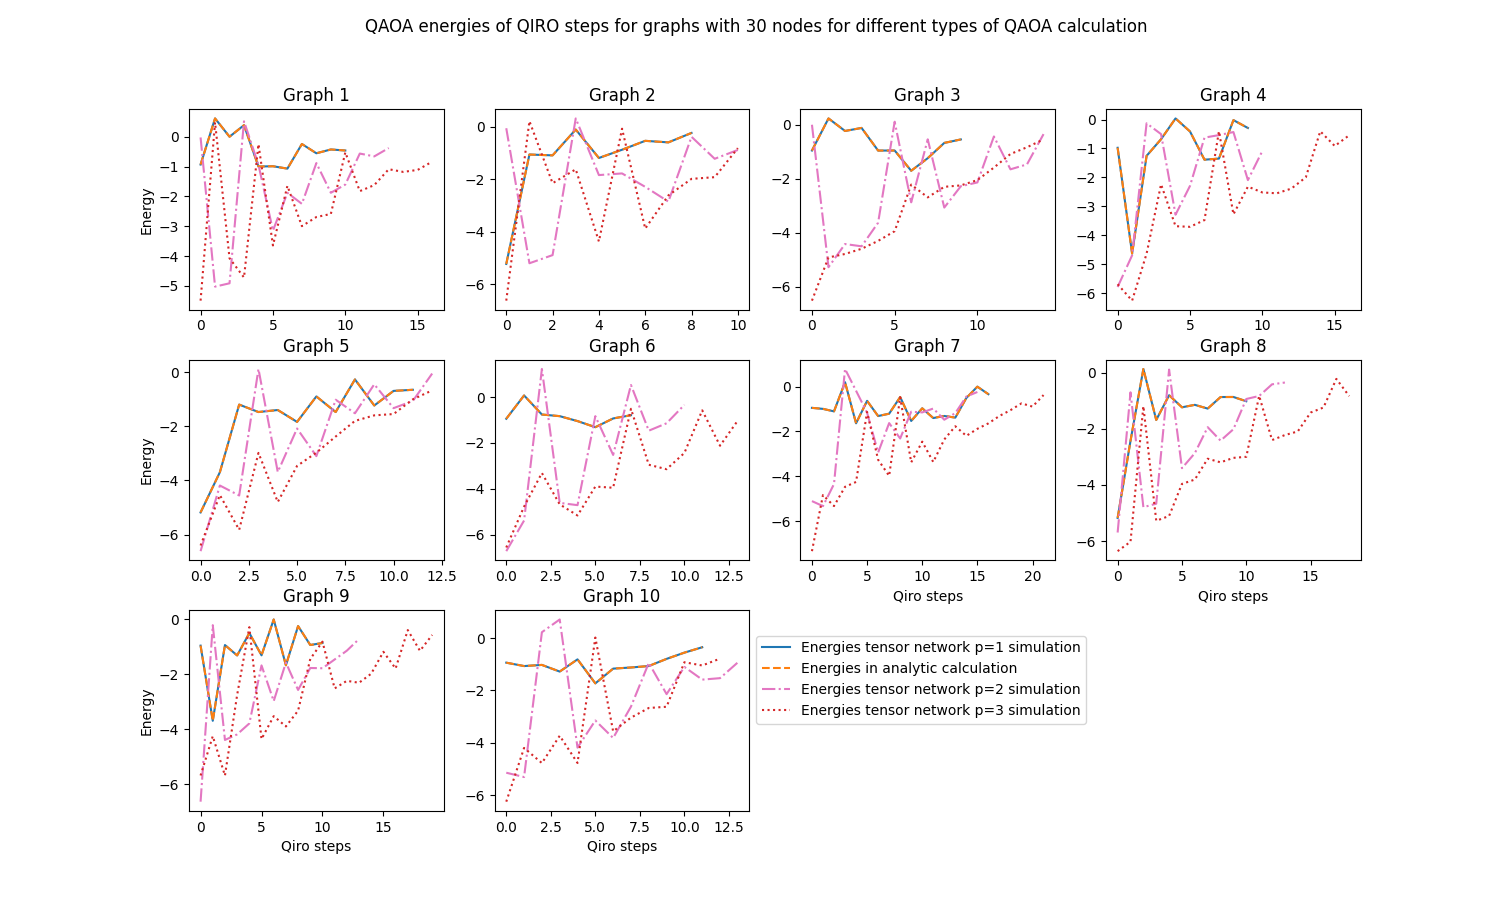
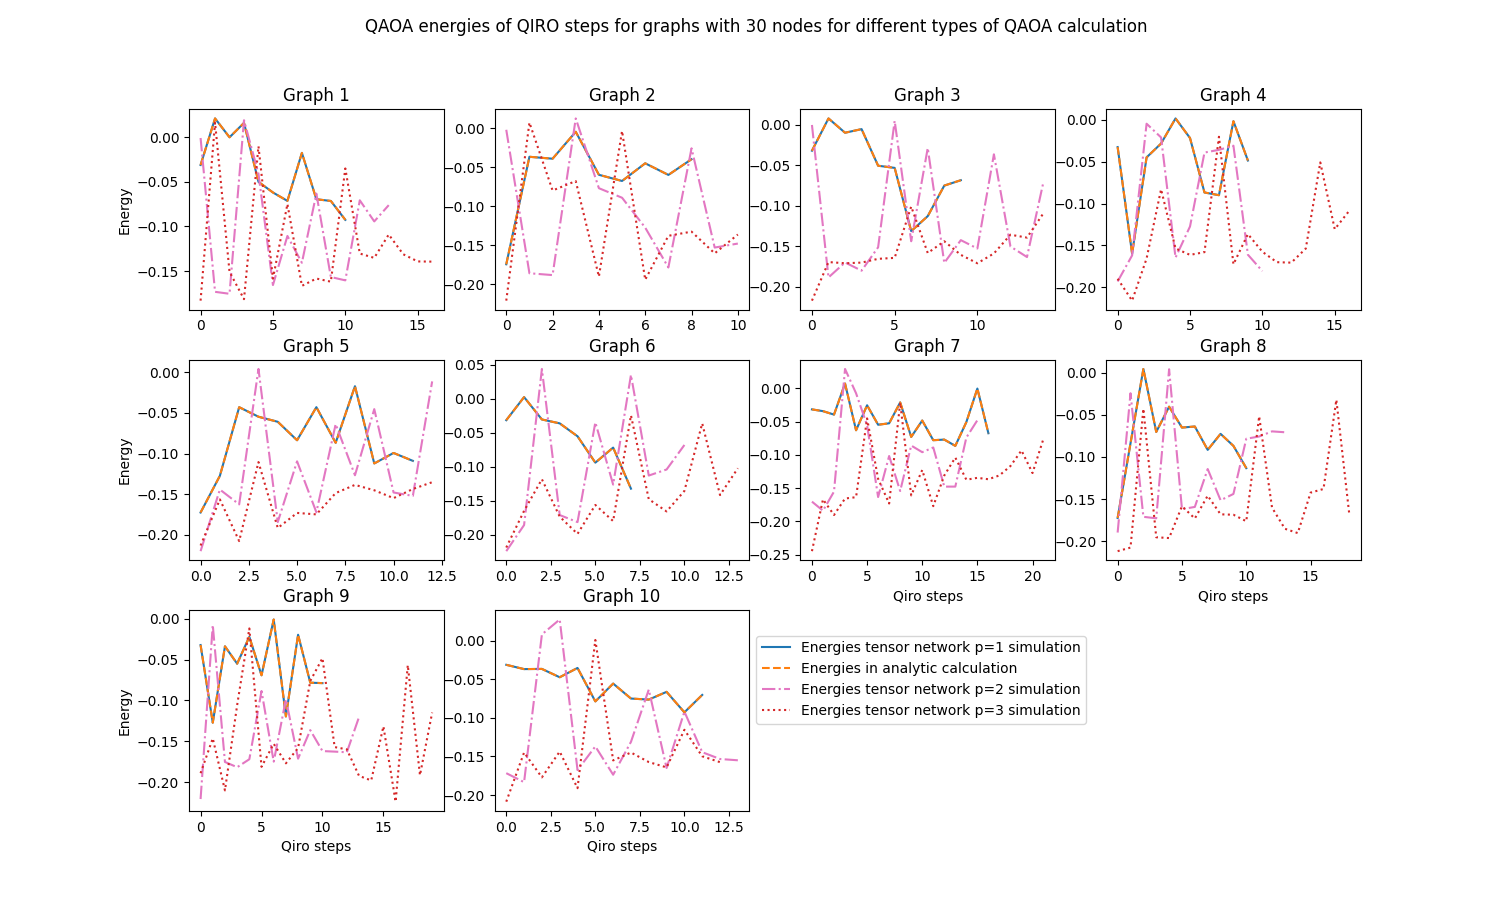
update

diff --git a/Experiments/MIS_QIRO/scripts/Read_results_file.py b/Experiments/MIS_QIRO/scripts/Read_results_file.py
@@ -49,16 +49,6 @@ def plot_MIS_size_per_graph(ns, ps, runs, version, regularity):
                     print(f'file results_run_{run}_n_{n}_p_{p}_version_{version}.pkl not available')
             
             if p==1:
-                counter_size = 0
-                average_list = []
-                for size in MIS_size_single_list:
-                    counter_size += size
-                average = counter_size/len(list_graphs_single)
-                for i in list_graphs_single:
-                    average_list.append(average)
-                plt.scatter(list(range(len(MIS_size_single_list))), MIS_size_single_list, c=colors[counter], s = 100, marker = markers[counter], label = f'analytic simulation with p=1')
-                plt.plot(list_graphs_single, average_list, color=colors[counter], linestyle=linestyles[counter], label = 'average MIS size with analytic p=1')
-                counter +=1
 
                 counter_size = 0
                 average_list = []
@@ -67,22 +57,34 @@ def plot_MIS_size_per_graph(ns, ps, runs, version, regularity):
                 average = counter_size/len(list_graphs_single)
                 for i in list_graphs_single:
                     average_list.append(average)
-                plt.scatter(list(range(len(MIS_size_greedy_list))), MIS_size_greedy_list, c=colors[counter], marker = markers[counter], label = f'greedy algorithm')
+                plt.scatter(list_graphs_single, MIS_size_greedy_list, c=colors[counter], s=100, marker = markers[counter], label = f'greedy algorithm')
                 plt.plot(list_graphs_single, average_list, color=colors[counter], linestyle=linestyles[counter], label = 'average MIS size with greedy algorithm')
                 counter +=1
+
+                counter_size = 0
+                average_list = []
+                for size in MIS_size_single_list:
+                    counter_size += size
+                average = counter_size/len(list_graphs_single)
+                for i in list_graphs_single:
+                    average_list.append(average)
+                plt.scatter(list_graphs_single, MIS_size_single_list, c=colors[counter], marker = markers[counter], label = f'analytic simulation with p=1')
+                plt.plot(list_graphs_single, average_list, color=colors[counter], linestyle=linestyles[counter], label = 'average MIS size with analytic p=1')
+                counter +=1
+
 
             counter_size = 0
             average_list = []
             for size in MIS_size_qtensor_list:
                 counter_size += size
             average = counter_size/len(list_graphs_qtensor)
-            for i in list_graphs_qtensor:
+            for i in runs:
                 average_list.append(average)
-            plt.scatter(list(range(len(MIS_size_qtensor_list))), MIS_size_qtensor_list, c=colors[counter], marker = markers[counter], label = f'tensor network simulation for p={p}')
-            plt.plot(list_graphs_qtensor, average_list, color=colors[counter], linestyle=linestyles[counter], label = f'average MIS size with tensor network p={p}')
+            plt.scatter(list_graphs_qtensor, MIS_size_qtensor_list, c=colors[counter], marker = markers[counter], label = f'tensor network simulation for p={p}')
+            plt.plot(runs, average_list, color=colors[counter], linestyle=linestyles[counter], label = f'average MIS size with tensor network p={p}')
             counter += 1
             
-        plt.xticks(runs, list(range(len(MIS_size_qtensor_list))))
+        plt.xticks(runs, list(range(len(MIS_size_single_list))))
         plt.xlabel('Graphs')
         plt.ylabel('MIS size')
         plt.legend()    
@@ -103,26 +105,26 @@ def plot_energies(ns, ps, runs, version, regularity, per_node=False):
             counter = 0
             plt.subplot(3, 4, i+1)
             for p in ps:
-                #try:
-                with open(my_path + f"/data/results_run_{run}_n_{n}_p_{p}_version_{version}.pkl", 'rb') as file:
-                    data = pickle.load(file)
-                num_nodes_qtensor = data['num_nodes_qtensor']
-                energies_qtensor = [float(j) for j in data['energies_qtensor']]
-                if per_node==True:
-                    energies_qtensor = [energies_qtensor[j]/num_nodes_qtensor[j] for j in range(len(num_nodes_qtensor))]
-                
-                plt.plot(list(range(len(energies_qtensor))), energies_qtensor, color=colors[counter], linestyle=linestyles[counter], label = f'Energies tensor network p={p} simulation')
-                counter += 1
-
-                if p==1:
-                    num_nodes_single = data['num_nodes_qtensor']
-                    energies_single = [float(j) for j in data['energies_single']]
+                try:
+                    with open(my_path + f"/data/results_run_{run}_n_{n}_p_{p}_version_{version}.pkl", 'rb') as file:
+                        data = pickle.load(file)
+                    num_nodes_qtensor = data['num_nodes_qtensor']
+                    energies_qtensor = [float(j) for j in data['energies_qtensor']]
                     if per_node==True:
-                        energies_single = [energies_single[j]/num_nodes_single[j] for j in range(len(num_nodes_single))]
-                    plt.plot(list(range(len(energies_single))), energies_single, color=colors[counter], linestyle=linestyles[counter], label = f'Energies in analytic calculation')
+                        energies_qtensor = [energies_qtensor[j]/num_nodes_qtensor[j] for j in range(len(num_nodes_qtensor))]
+                    
+                    plt.plot(list(range(len(energies_qtensor))), energies_qtensor, color=colors[counter], linestyle=linestyles[counter], label = f'Energies tensor network p={p} simulation')
                     counter += 1
-                #except:
-                #    print(f'file results_run_{run}_n_{n}_p_{p}_version_{version}.pkl not available')
+
+                    if p==1:
+                        num_nodes_single = data['num_nodes_qtensor']
+                        energies_single = [float(j) for j in data['energies_single']]
+                        if per_node==True:
+                            energies_single = [energies_single[j]/num_nodes_single[j] for j in range(len(num_nodes_single))]
+                        plt.plot(list(range(len(energies_single))), energies_single, color=colors[counter], linestyle=linestyles[counter], label = f'Energies in analytic calculation')
+                        counter += 1
+                except:
+                    print(f'file results_run_{run}_n_{n}_p_{p}_version_{version}.pkl not available')
 
             if i==0 or i==4 or i==8:
                 plt.ylabel('Energy')
@@ -133,6 +135,109 @@ def plot_energies(ns, ps, runs, version, regularity, per_node=False):
         plt.legend(loc='lower left', bbox_to_anchor=(1,0.4))
         plt.show()
         fig.savefig(my_path + f'/results/Energies_reg_{regularity}_n_{n}_runs_{runs[0]}_{runs[9]}_version_{version}.png')
+
+
+def plot_losses(ns, ps, runs, version, regularity, per_node=False):
+    colors=['tab:blue', 'tab:orange', 'tab:pink', 'tab:red', 'tab:cyan', 'tab:green', 'tab:brown', 'tab:grey', 'tab:olive', 'tab:purple']
+    markers = ['s', 'D', 'v', '*', '.']
+    linestyles = ['solid', 'dashed', 'dashdot', 'dotted', (0, (3, 5, 1, 5, 1, 5)), (0, (3, 1, 1, 1, 1, 1))]
+    my_path = os.path.dirname(__file__)
+    my_path = os.path.dirname(my_path)
+    for n in ns:
+        for run, i in zip(runs, range(len(runs))):
+            fig = plt.figure()
+            fig.suptitle(f"QAOA optimization losses of QIRO steps for graph number {run} with {n} nodes for different types of QAOA calculation")
+            counter = 0
+            for p in ps:
+                try:
+                    with open(my_path + f"/data/results_run_{run}_n_{n}_p_{p}_version_{version}.pkl", 'rb') as file:
+                        data = pickle.load(file)
+                    num_nodes_qtensor = data['num_nodes_qtensor']
+                    losses = data['losses_qtensor']
+                    if p ==1:
+                        energies_single = data['energies_single']
+
+                    for j in range(14):
+                        plt.subplot(3, 5, j+1)
+                        try:
+                            losses_per_step = losses[j]
+                            if per_node==True:
+                                losses_per_step = [losses_per_step[k]/num_nodes_qtensor[j] for k in range(len(losses_per_step))]
+                        
+                            plt.plot(list(range(len(losses_per_step))), losses_per_step, color=colors[counter], linestyle=linestyles[counter], label = f'Losses tensor network p={p} simulation')
+                            plt.title(f'QIRO step {j}')
+                            if j==0 or j==5 or j==10:
+                                plt.ylabel('Loss')
+                            if j==9 or j==10 or j==11 or j==12 or j==13:
+                                plt.xlabel('Optimization steps')
+                        except:
+                            pass
+                        
+                         
+                        if p==1:
+                            plt.scatter([0], [energies_single[j]])
+                except:
+                    print(f'file results_run_{run}_n_{n}_p_{p}_version_{version}.pkl not available')
+                counter += 1
+
+            lines = []
+            labels = []
+            
+            line, label = fig.axes[0].get_legend_handles_labels()
+            lines.extend(line)
+            labels.extend(label)
+            plt.subplots_adjust(left=0.1, bottom=None, right=None, top=None, wspace=0.4, hspace=0.35)
+            plt.legend(lines, labels, loc='lower left', bbox_to_anchor=(1,0.2))
+            plt.show()
+            fig.savefig(my_path + f'/results/Losses_reg_{regularity}_n_{n}_run_{run}_version_{version}.png')
+
+def plot_losses_multiple_versions(ns, ps, runs, versions, regularity, per_node=False):
+    colors=['tab:blue', 'tab:orange', 'tab:pink', 'tab:red', 'tab:cyan', 'tab:green', 'tab:brown', 'tab:grey', 'tab:olive', 'tab:purple']
+    markers = ['s', 'D', 'v', '*', '.']
+    linestyles = ['solid', 'dashed', 'dashdot', 'dotted', (0, (3, 5, 1, 5, 1, 5)), (0, (3, 1, 1, 1, 1, 1))]
+    my_path = os.path.dirname(__file__)
+    my_path = os.path.dirname(my_path)
+    for n in ns:
+        for run, i in zip(runs, range(len(runs))):
+            fig = plt.figure()
+            fig.suptitle(f"QAOA optimization losses of QIRO steps for graph number {run} with {n} nodes for different types of QAOA calculation")
+            counter = 0
+            for p in ps:
+
+                for version in versions:
+                    try:
+                        with open(my_path + f"/data/results_run_{run}_n_{n}_p_{p}_version_{version}.pkl", 'rb') as file:
+                            data = pickle.load(file)
+                        num_nodes_qtensor = data['num_nodes_qtensor']
+                        losses = data['losses_qtensor']
+
+                        for j in range(14):
+                            plt.subplot(3, 5, j+1)
+                            losses_per_step = losses[j]
+                            if per_node==True:
+                                losses_per_step = [losses_per_step[k]/num_nodes_qtensor[j] for k in range(len(losses_per_step))]
+                        
+                            plt.plot(list(range(len(losses_per_step))), losses_per_step, color=colors[counter], linestyle=linestyles[counter], label = f'Losses tensor network p={p} simulation')
+                            plt.title(f'QIRO step {j}')
+                            if j==0 or j==5 or j==10:
+                                plt.ylabel('Loss')
+                            if j==9 or j==10 or j==11 or j==12 or j==13:
+                                plt.xlabel('Optimization steps')
+
+                    except:
+                        print(f'file results_run_{run}_n_{n}_p_{p}_version_{version}.pkl not available')
+                    counter += 1
+
+            lines = []
+            labels = []
+            
+            line, label = fig.axes[0].get_legend_handles_labels()
+            lines.extend(line)
+            labels.extend(label)
+            plt.subplots_adjust(left=0.1, bottom=None, right=None, top=None, wspace=0.4, hspace=0.35)
+            plt.legend(lines, labels, loc='lower left', bbox_to_anchor=(1,0.2))
+            plt.show()
+            fig.savefig(my_path + f'/results/Losses_reg_{regularity}_n_{n}_run_{run}_versions_{versions[0]}_{versions[1]}.png')
 
                 
 
@@ -160,13 +265,17 @@ if __name__ == '__main__':
 
     ns = [30]
     ps = [1, 2, 3]
-    runs = list(range(0, 10))
+    runs = list(range(0, 20))
     regularity = 3
-    version = 1
+    versions = [1, 2]
+    version = 2
     
 
     #plot_MIS_size_per_graph(ns, ps, runs, version, regularity)
-    plot_energies(ns, ps, runs, version, regularity, per_node=False)
+    #plot_energies(ns, ps, runs, version, regularity, per_node=True)
+    plot_losses(ns, ps, runs, version, regularity, per_node=True)
+    #plot_losses_multiple_versions(ns, ps, runs, versions, regularity, per_node=True)
+
         
 
 

diff --git a/Parameter_optimisation/MIS/scripts/plot_optimizer_results.py b/Parameter_optimisation/MIS/scripts/plot_optimizer_results.py
@@ -197,8 +197,9 @@ def plot_energy__different_opt_init_n_30(ns, ps, regularity, graphs):
             plt.legend(loc='upper right', bbox_to_anchor=(1,1))
             plt.subplots_adjust(hspace=0.4)
             fig.savefig(my_path + f'/graphs/Energies_reg_{regularity}_n_{n}_graph_{graph}_different_optimized_initializations.png')
-            plt.close()
+            #plt.close()
             #plt.show()
+
 def plot_losses__different_opt_init_n_30(ns, ps, regularity, graphs):
     colors=['tab:blue', 'tab:orange', 'tab:green', 'tab:red', 'tab:purple', 'tab:pink', 'tab:brown', 'tab:grey', 'tab:olive', 'tab:cyan']
     my_path = os.path.dirname(__file__)
@@ -301,7 +302,7 @@ graphs=[i for i in range(5)]
 ns=[30]#, 100, 150, 200]
 regularity=3
 optimizers_list = ['SGD', 'RMSprop', 'Adam']
-ps = [2, 3]
+ps = [1, 2, 3]
 
 learning_rates_SGD = [0.0001, 0.0005, 0.001]
 learning_rates_RMSprop = [0.001, 0.005, 0.01, 0.05]
@@ -319,4 +320,4 @@ if __name__ == '__main__':
     #plot_energy_optimizer_different_lr(ns, regularity, graphs, optimizers_list, initializers_list)
     #plot_losses_optimizer_different_lr(ns, ps, regularity, graphs, optimizers_list, initializers_list)
     plot_energy__different_opt_init_n_30([30], ps, regularity, graphs)
-    plot_losses__different_opt_init_n_30([30], ps, regularity, graphs)
+    #plot_losses__different_opt_init_n_30([30], ps, regularity, graphs)

diff --git a/Experiments/MIS_QIRO/scripts/Helping_file.py b/Experiments/MIS_QIRO/scripts/Helping_file.py
@@ -94,8 +94,8 @@ def execute_QIRO_single_instance(n, p, run, version, initialization, output_resu
         size_indep_set_qiro_single = np.sum(solution_single >= 0)
         solution_dict['size_solution_single'] = size_indep_set_qiro_single
         solution_dict['solution_single'] = solution_single
-        solution_dict['energies_single'] = QIRO_qtensor.energies_list
-        solution_dict['num_nodes_qtensor'] = QIRO_qtensor.num_nodes
+        solution_dict['energies_single'] = QIRO_single.energies_list
+        solution_dict['num_nodes_single'] = QIRO_single.num_nodes
 
     # f = open(my_path + f"/data/results_test_run_{run}_n_{n}_p_{p}_version_{version}.txt", "w+")
     # f.write(f"\nRequired time in seconds for RQAOA: {required_time}")

diff --git a/Experiments/MIS_QIRO/scripts/Run_experiments_1.py b/Experiments/MIS_QIRO/scripts/Run_experiments_1.py
@@ -23,7 +23,7 @@ if __name__ == '__main__':
     reg = 3
     ns = [30]#, 140, 180]
     seed = 666
-    ps= [1, 2, 3]
+    ps= [1]#, 2, 3]
     #num_runs = 10
     runs=list(range(0, 20, 1))
     initialization = 'transition_states'
